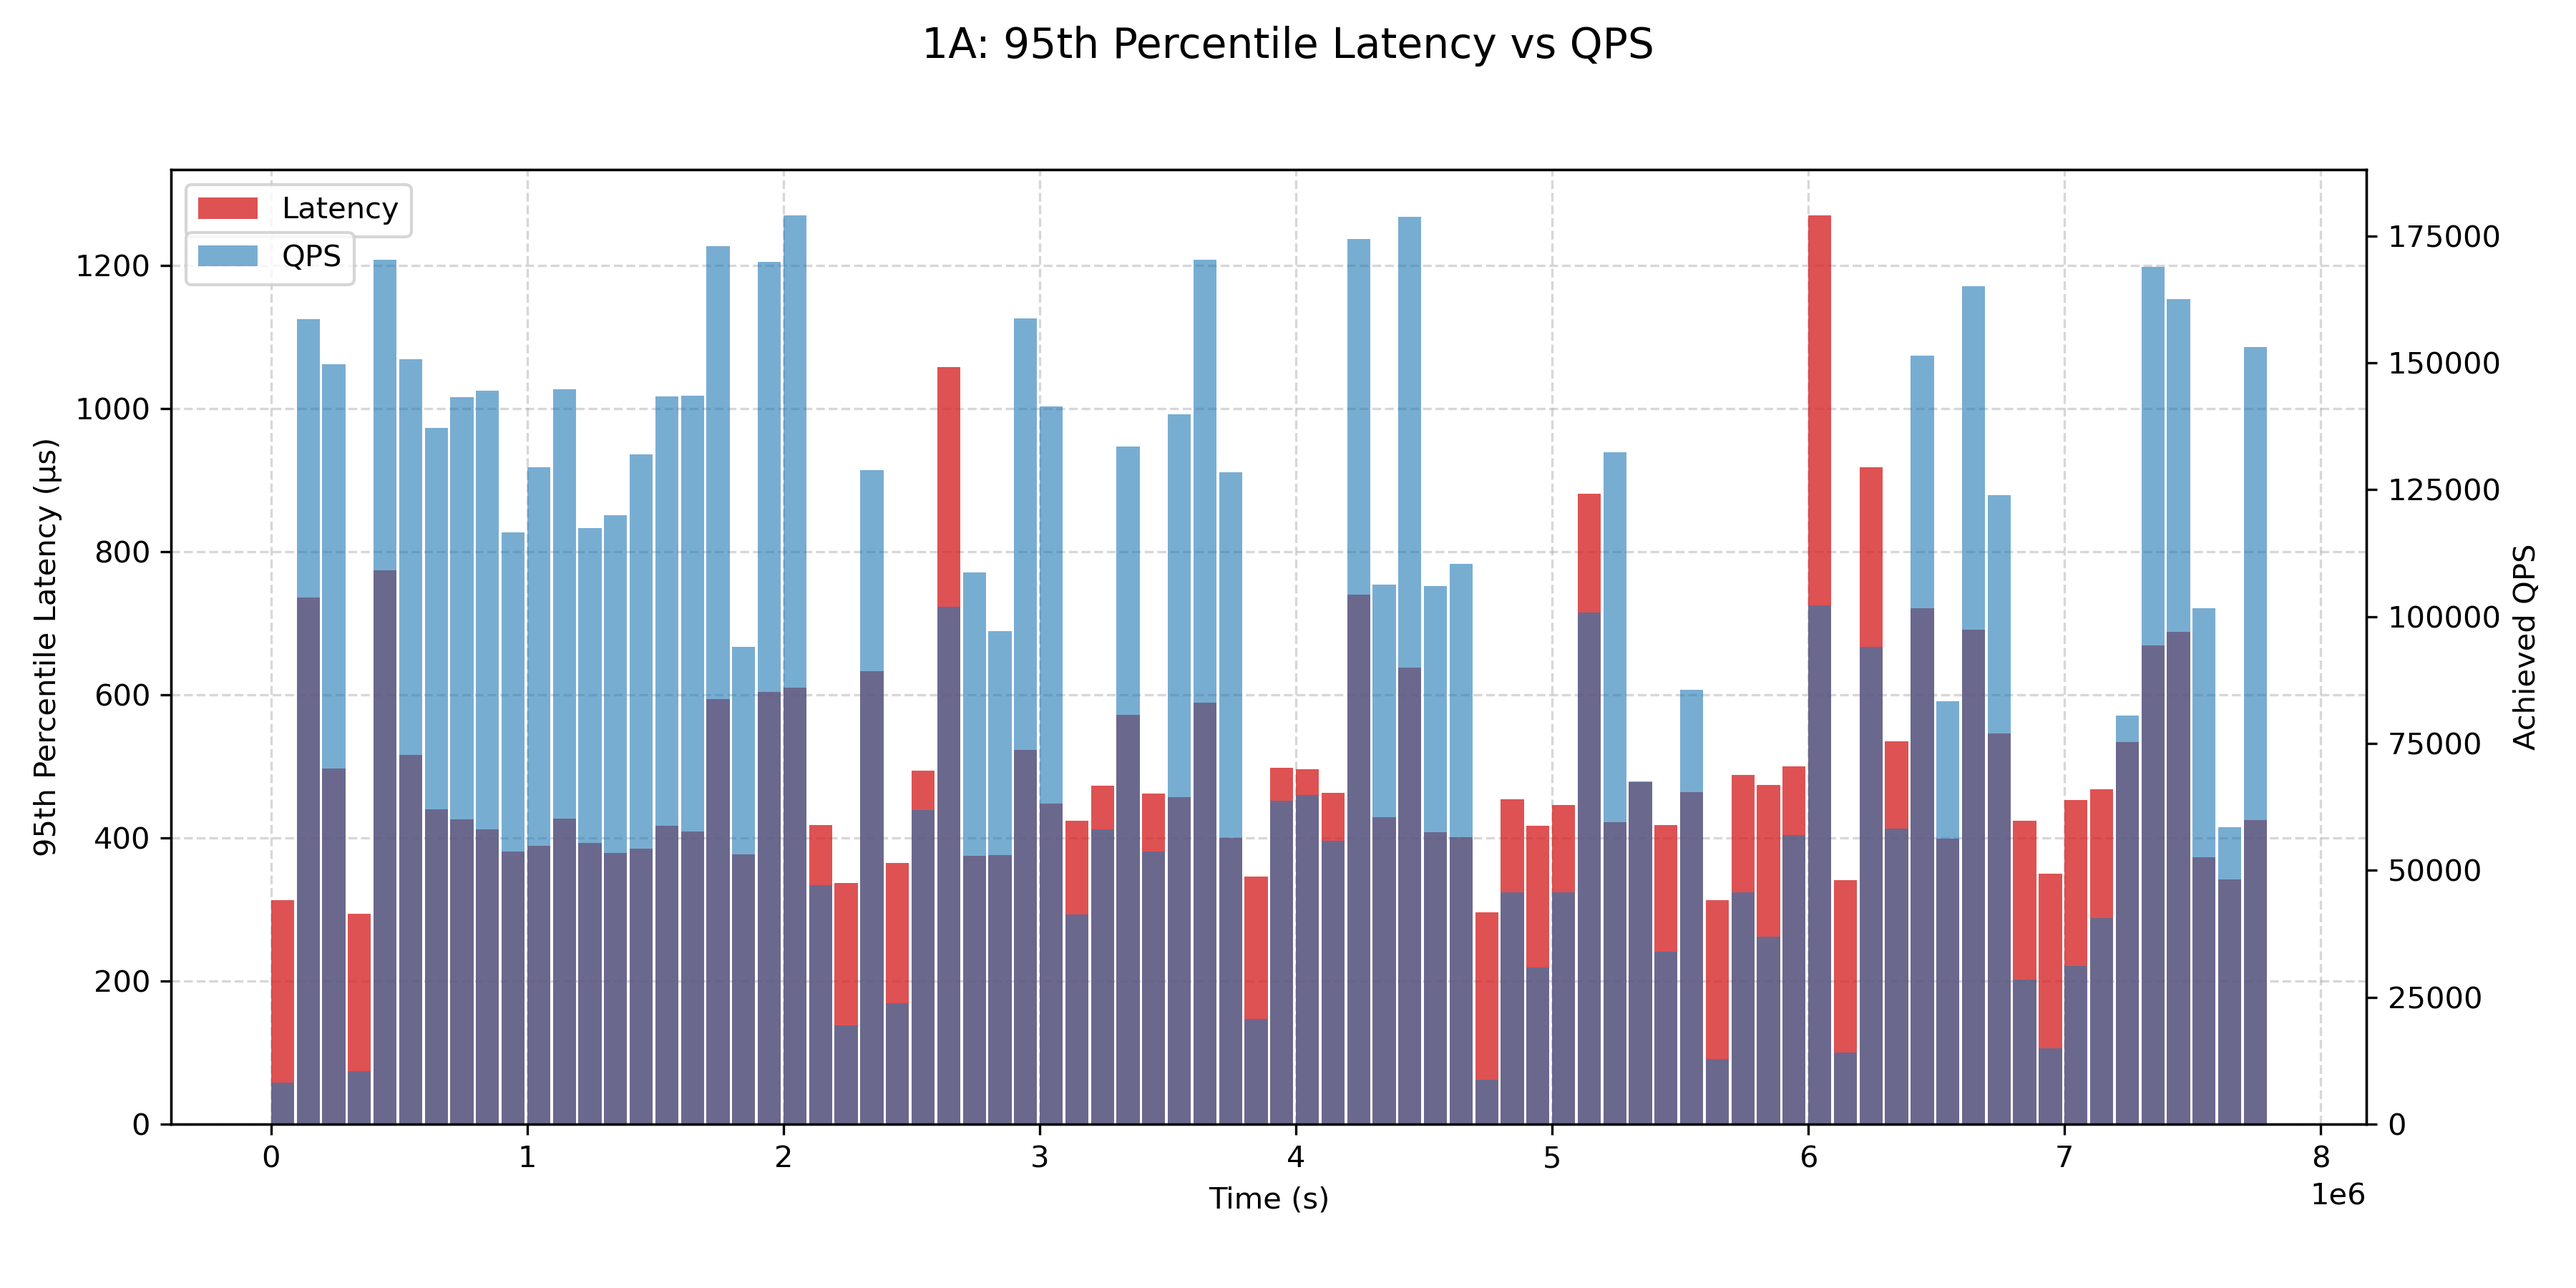
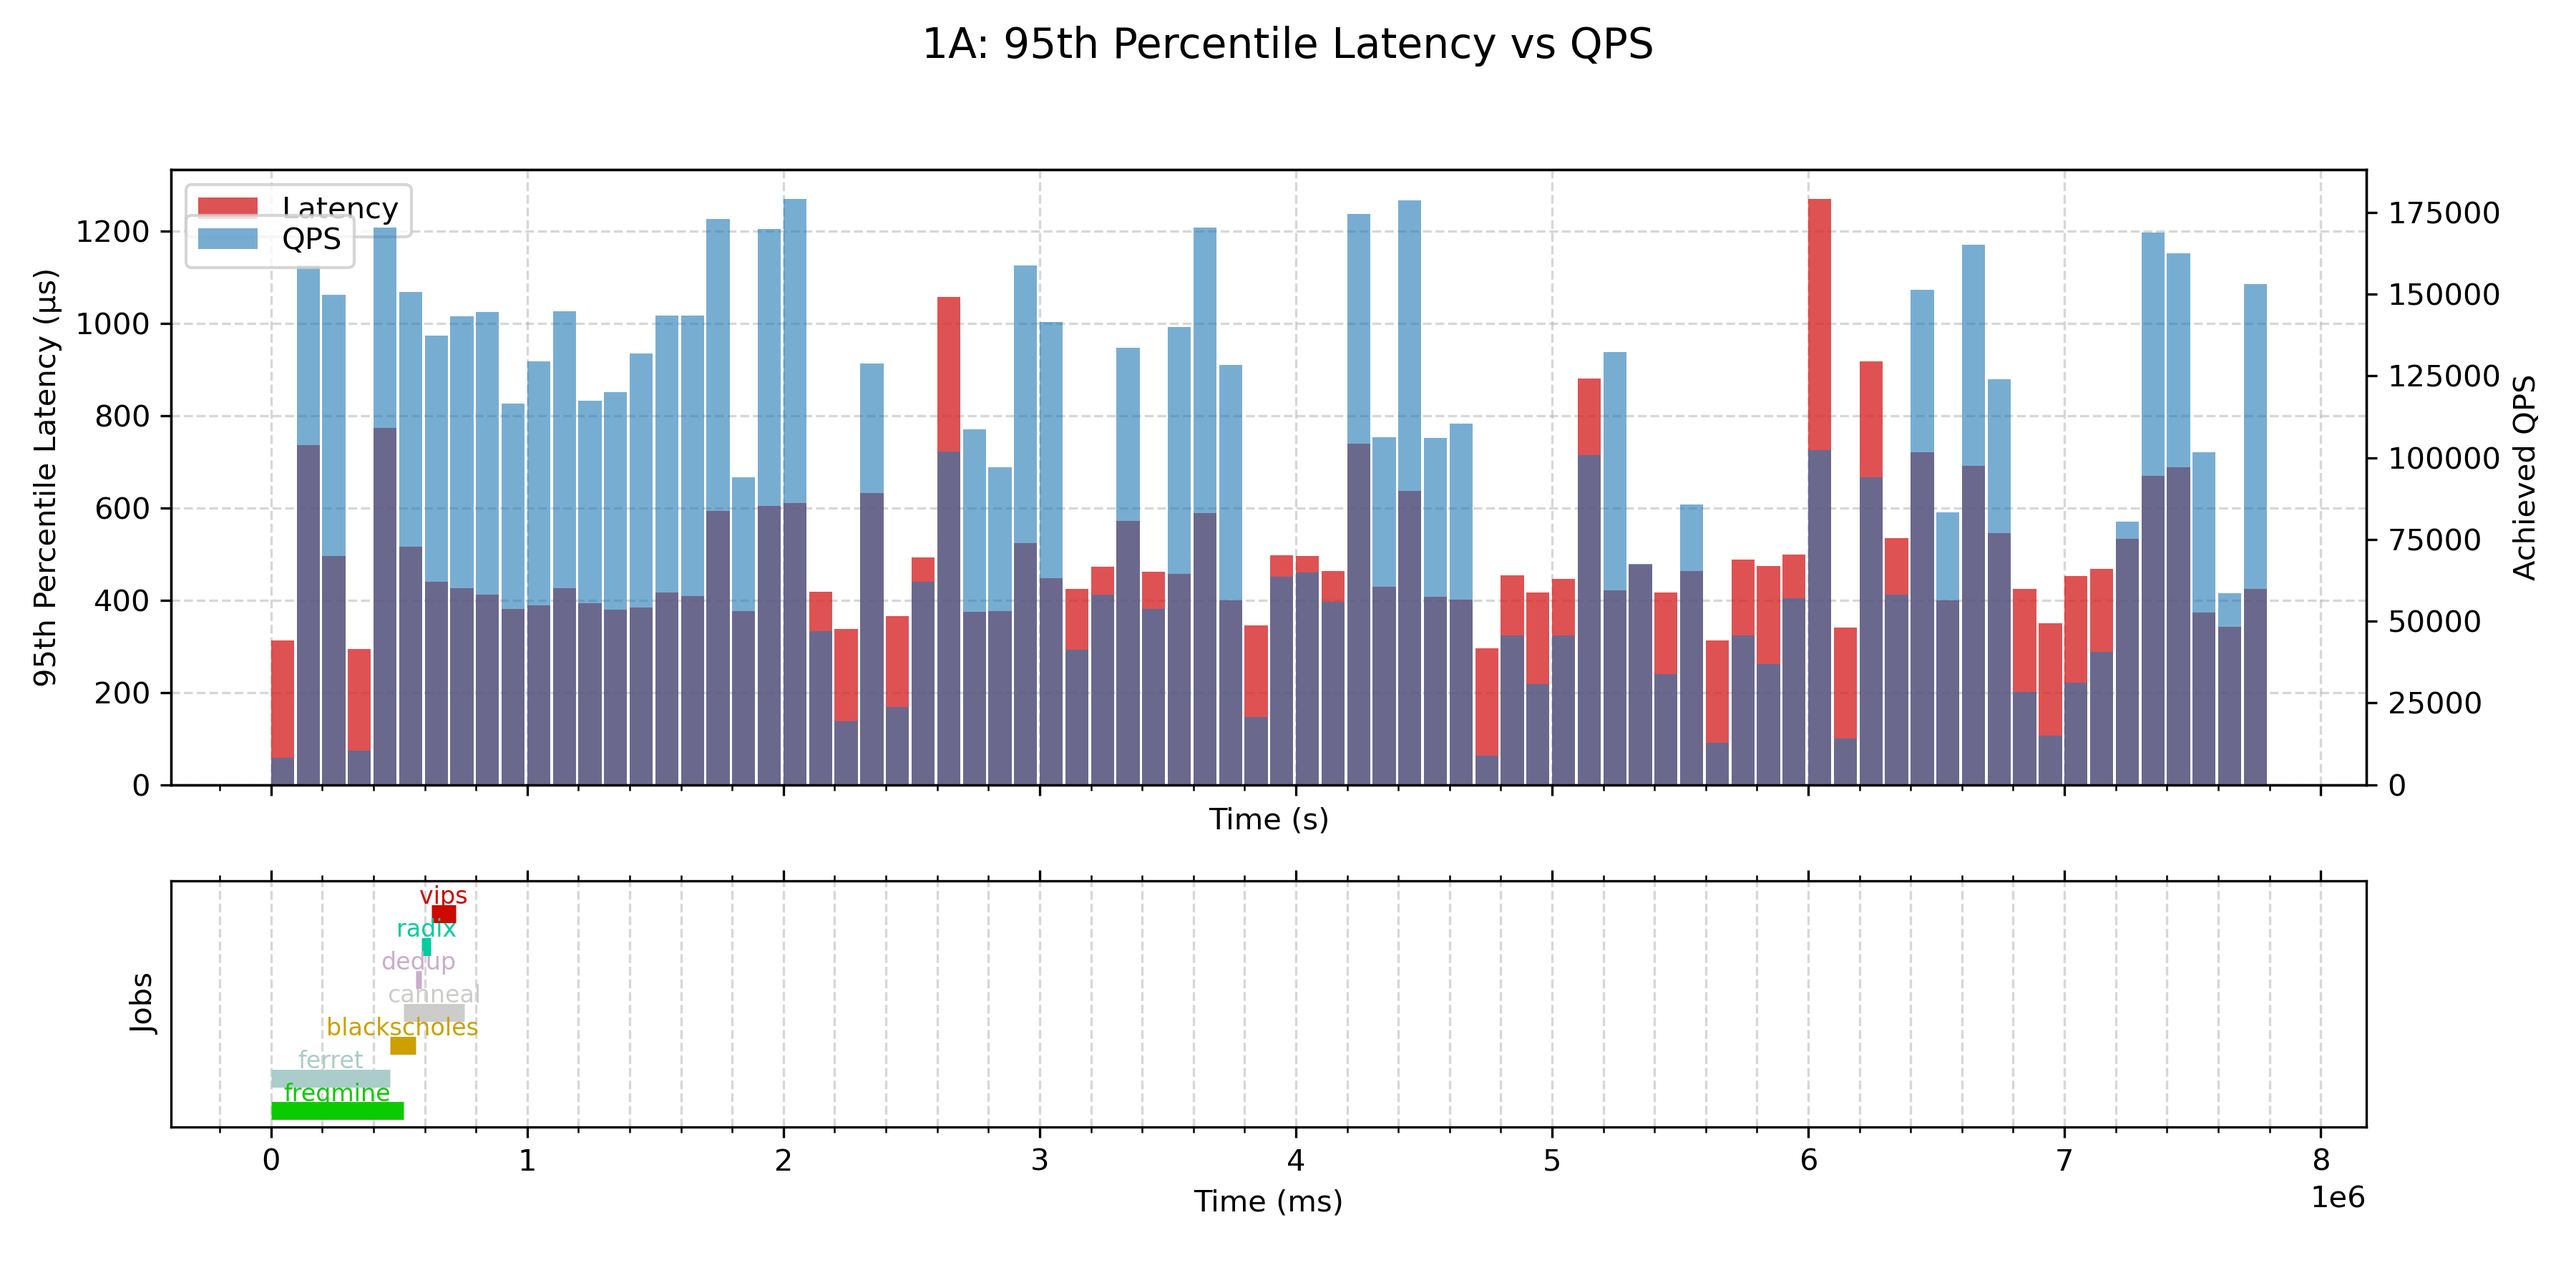
with jobs

diff --git a/part4/plot/plot_q3.py b/part4/plot/plot_q3.py
@@ -65,7 +65,25 @@ def get_logger_df(logger_path):
     for col in ['threads', 'time']:
         if col in df.columns:
             df[col] = pd.to_numeric(df[col], errors='coerce')
+
+    df["timestamp_ms"] = pd.to_datetime(df["timestamp"]).astype("int64") // 10**6
     return df
+
+def extract_start_end(logger_df):
+    filtered_df = logger_df[logger_df['type'].isin(['start', 'end']) & (logger_df['task'] != 'memcached')]
+    filtered_df = filtered_df.sort_values(by="timestamp_ms")
+
+    # Separate start and end events
+    starts = filtered_df[filtered_df["type"] == "start"][["task", "timestamp_ms"]].rename(columns={"timestamp_ms": "start"})
+    ends = filtered_df[filtered_df["type"] == "end"][["task", "timestamp_ms"]].rename(columns={"timestamp_ms": "end"})
+
+    # Merge on task
+    task_times = pd.merge(starts, ends, on="task")
+    task_times['duration'] = task_times['end'] - task_times['start']
+    start_time = task_times.loc[0, 'start']
+    task_times['start'] = task_times['start'] - start_time
+    task_times['end'] = task_times['end'] - start_time
+    return task_times
 
 def get_mcperf_path(folder_path):
     file_list = glob.glob(os.path.join(folder_path, "mcperf_results*.txt"))
@@ -120,8 +138,12 @@ def get_p95_latencies(result_path):
     return result_df[['p95', 'QPS', 'start_time']]
 
 
-def export_plot_A(p95_df, folder, run_number):
-    fig, ax1 = plt.subplots(figsize=(12, 6))
+def export_plot_A(p95_df, job_df, folder, run_number):
+    fig, (ax1, ax2) = plt.subplots(nrows=2,
+        ncols=1,
+        figsize=(12, 6),
+        sharex=True,
+        gridspec_kw={'height_ratios': [5, 2]})
 
     x = p95_df['start_time']
 
@@ -141,9 +163,9 @@ def export_plot_A(p95_df, folder, run_number):
     ax1.tick_params(axis='y')
 
     # Right Y-Axis: QPS
-    ax2 = ax1.twinx()
-    ax2.set_ylabel("Achieved QPS")
-    ax2.bar(
+    ax1_2 = ax1.twinx()
+    ax1_2.set_ylabel("Achieved QPS")
+    ax1_2.bar(
         x,
         p95_df['QPS'],
         width=90000,
@@ -153,7 +175,7 @@ def export_plot_A(p95_df, folder, run_number):
         alpha=0.6,
         zorder=1 
     )
-    ax2.tick_params(axis='y')
+    ax1_2.tick_params(axis='y')
 
     # Grid and layout
     ax1.grid(True, linestyle='--', alpha=0.5)
@@ -161,7 +183,34 @@ def export_plot_A(p95_df, folder, run_number):
     fig.tight_layout(rect=[0, 0.03, 1, 0.95])  # Room for title
 
     ax1.legend(loc='upper left', bbox_to_anchor=(0, 1))
-    ax2.legend(loc='upper left', bbox_to_anchor=(0, 0.95))
+    ax1_2.legend(loc='upper left', bbox_to_anchor=(0, 0.95))
+
+    spacing = 2
+    # Job duration horizontal bars
+    for i, row in job_df.iterrows():
+        color = colors.get(row['task'], '#000000')
+        ax2.hlines(
+            y=i * spacing, xmin=row['start'], xmax=row['end'],
+            color=color, linewidth=6
+        )
+        ax2.text(
+            x=(row['start'] + row['end']) / 2,
+            y= i * spacing + 0.3,
+            s=row['task'],
+            ha='center',
+            va='bottom',
+            fontsize=8,
+            color=color
+        )
+
+    ax2.set_yticks([])
+    ax2.set_yticklabels([])
+    ax2.set_xlabel('Time (ms)')
+    ax2.set_ylabel('Jobs')
+    ax2.set_ylim(-1, spacing * len(job_df))
+    ax2.grid(True, axis='x', which='both', linestyle='--', alpha=0.5)
+    ax2.minorticks_on()
+    ax2.tick_params(axis='x', which='both', direction='out', top=True)
 
     # Save plot
     os.makedirs(folder, exist_ok=True)
@@ -212,7 +261,10 @@ def export_plots(folder, run_number):
     logger_df = get_logger_df(folder_path + 'logger_out')
     print(logger_df)
 
-    export_plot_A(p95_df, folder, run_number)
+    job_df = extract_start_end(logger_df)
+    print(job_df)
+
+    export_plot_A(p95_df, job_df, folder, run_number)
     #export_plot_B(p95_df, folder, run_number)
 
 
